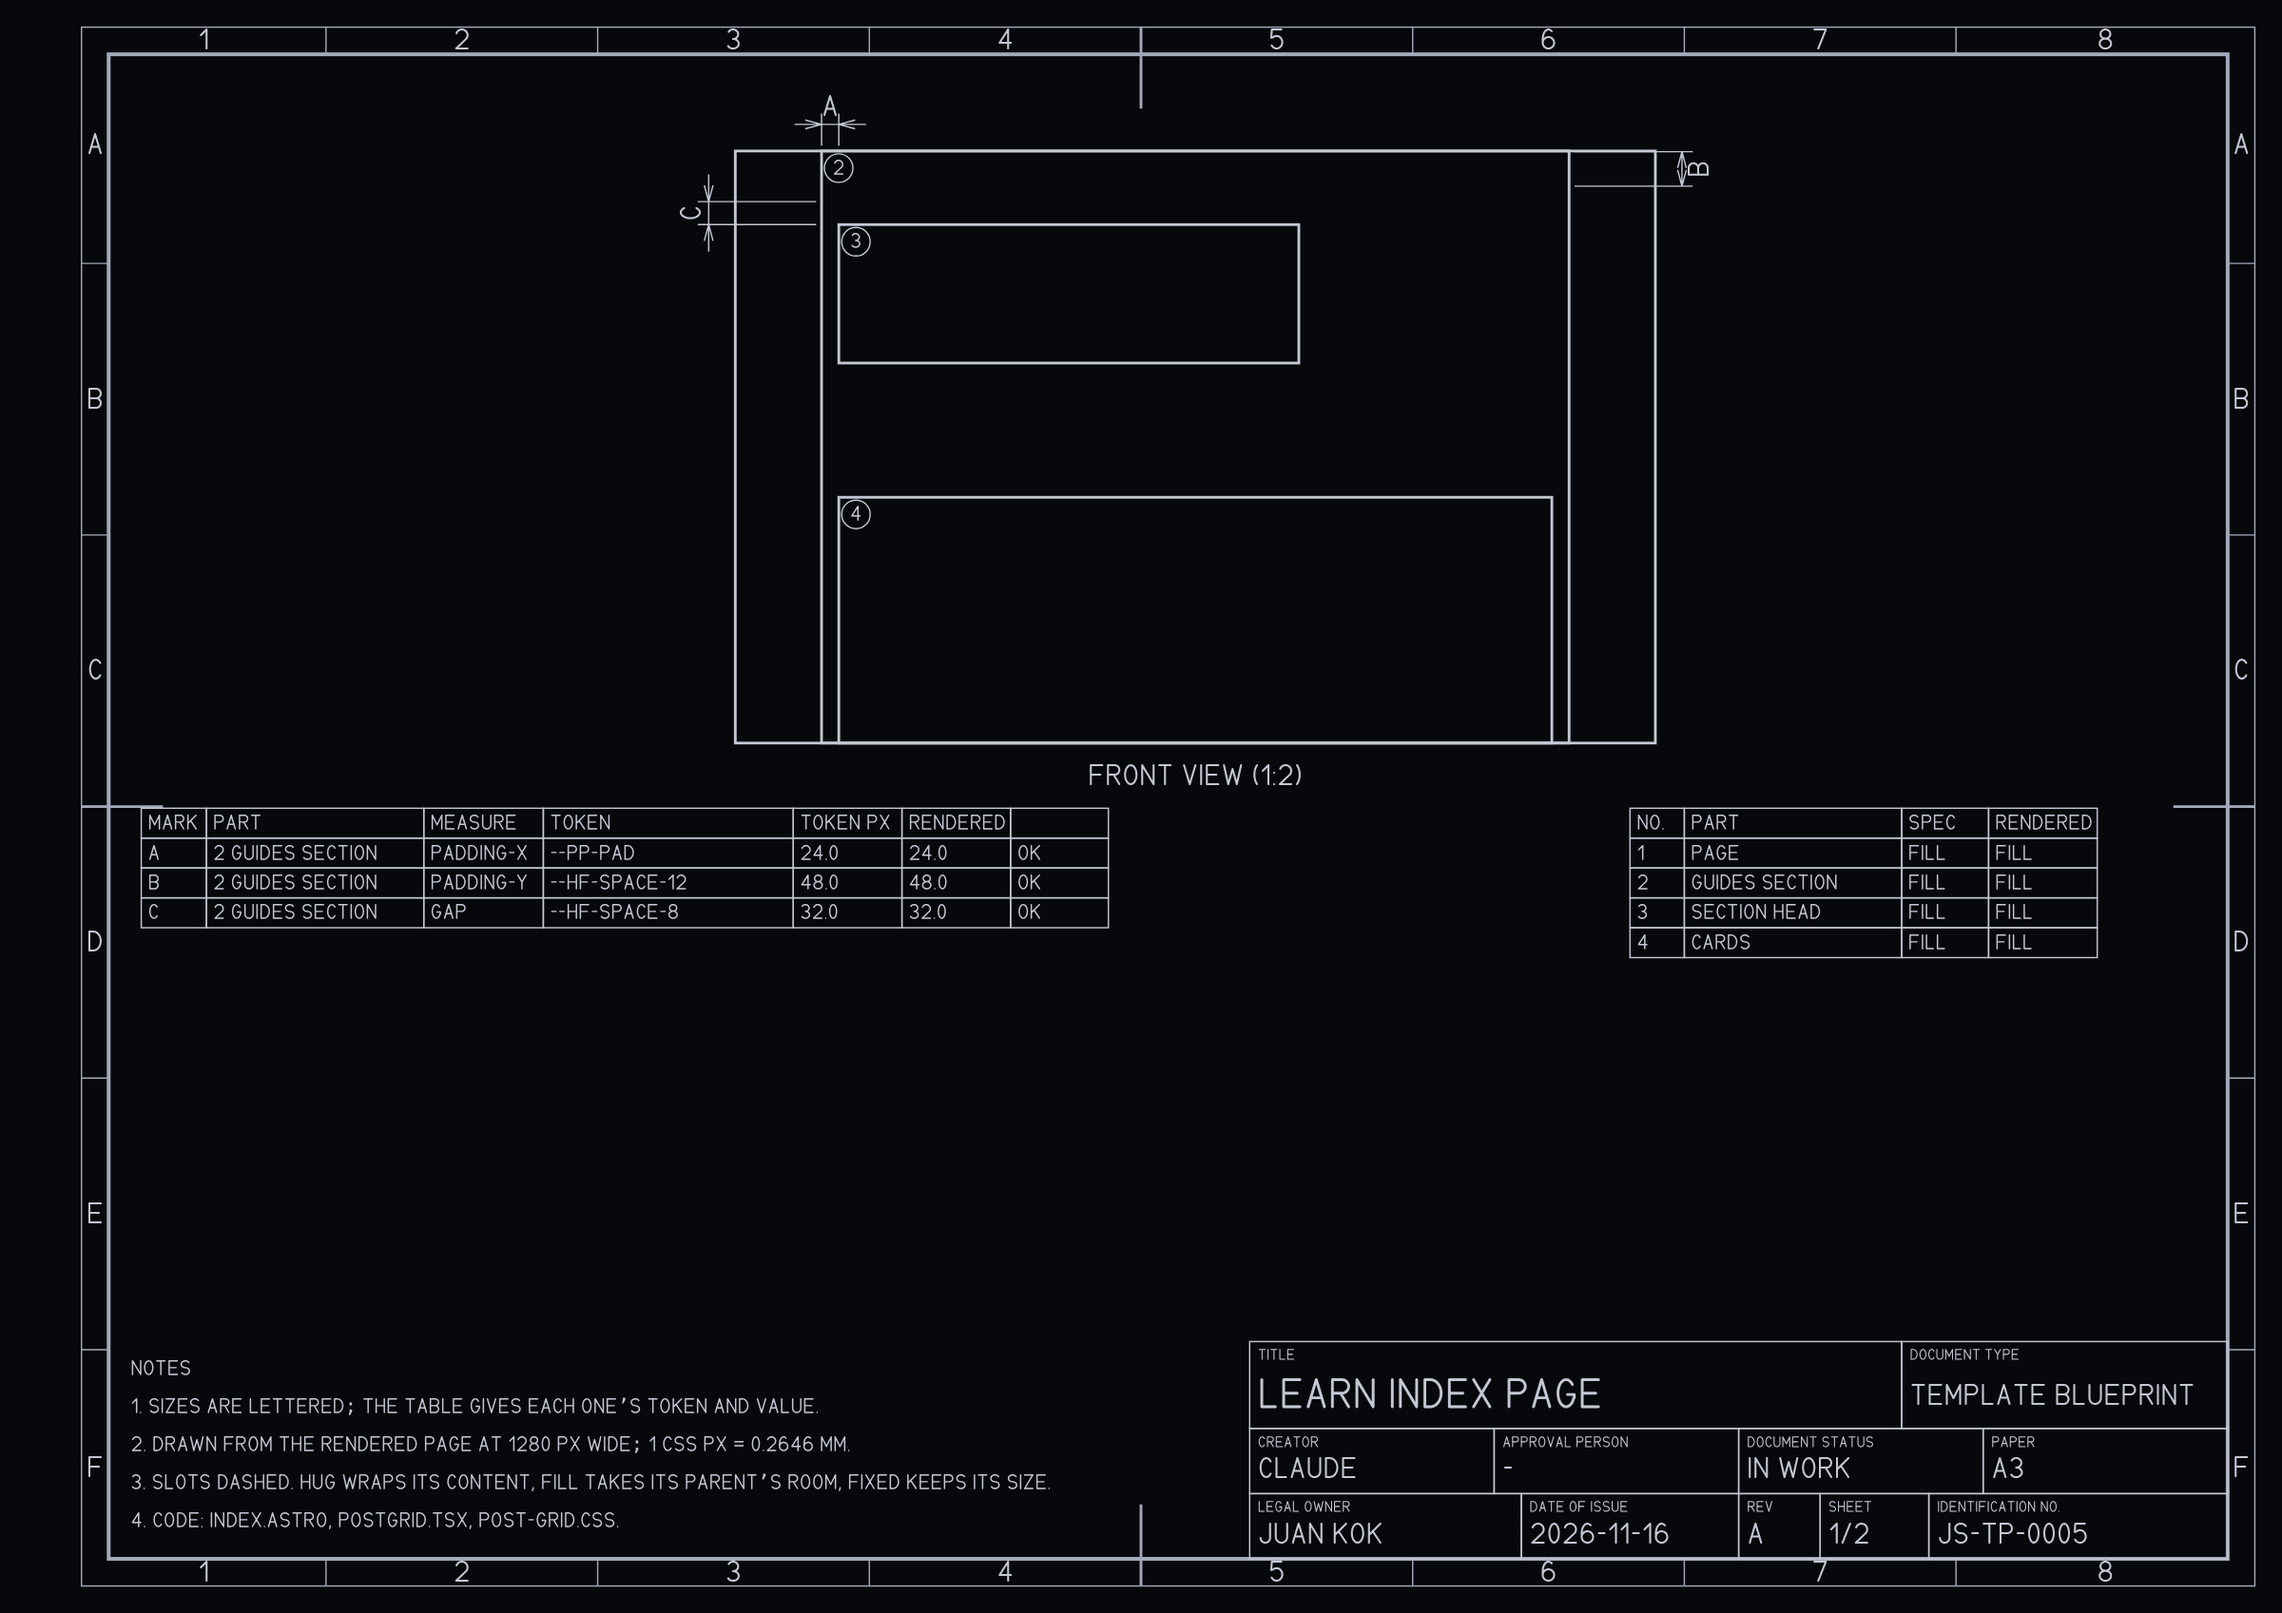
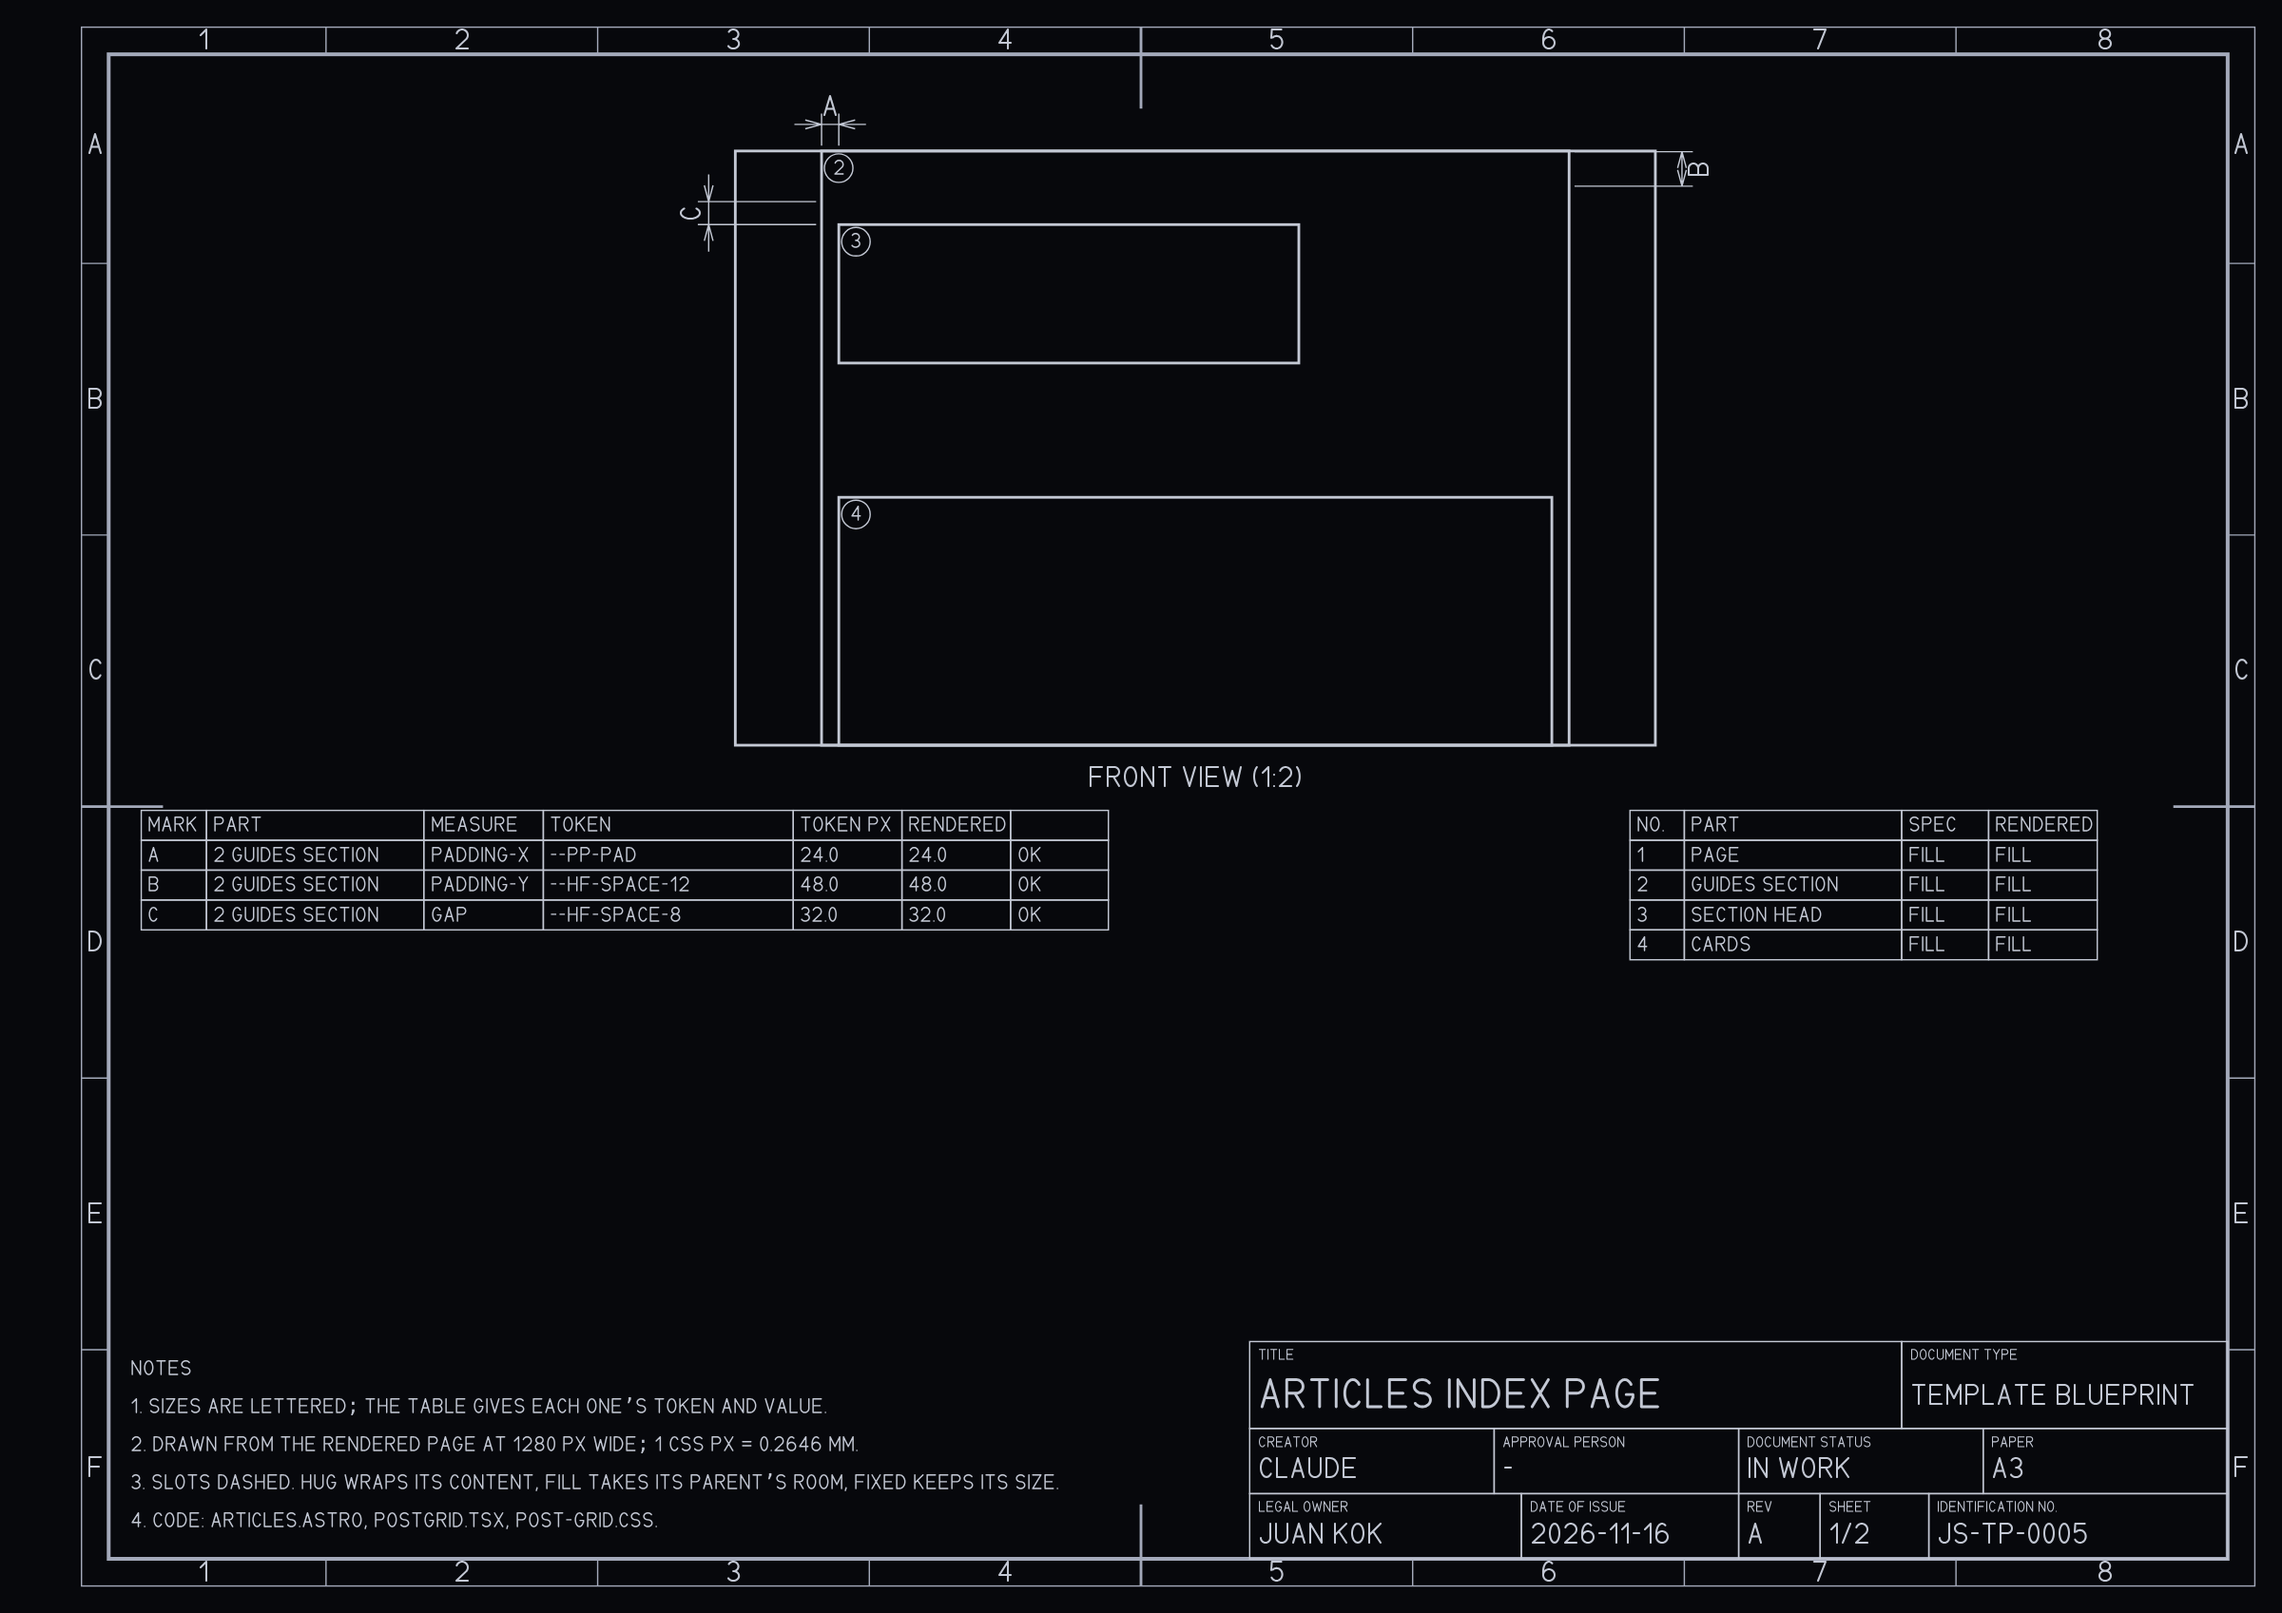
feat: the field-guide index moves into the library
/learn/ becomes /library/articles/ and forwards there; "Learn" leaves the
header, nav and footer, and article pages light "Library". The library grid
now holds posts and articles, so its words say "writing", not "posts".
The gate reserves the slug "articles" and no longer lets a link to /learn/
through, which caught the art-gallery sheet's back link.

diff --git a/astro/src/data/learn.ts b/astro/src/data/learn.ts
@@ -1,7 +1,7 @@
 import { getCollection, type CollectionEntry } from 'astro:content';
 import { LEARN_SUBJECTS } from '../content/config';
 import type { FeaturedPage, PostSummary } from '../components/writing/types';
-import { pieceHref } from './library';
+import { LIBRARY, pieceHref } from './library';
 
 /** The words and the order of the learn pages. Each subject names the weekly tracker that
  *  follows it, so an explainer and the week's news about the same thing link to each other. */
@@ -16,7 +16,7 @@ export const LEARN_SUBJECT: Record<LearnSubject, { label: string; tracker: { nam
 export const LEARN_COPY = {
   title: 'Field guides',
   body: 'Long explainers on how inference runs, how the silicon under it is built, and how I build with agents. Each subject has a weekly tracker that follows it.',
-  all: { label: 'All field guides', href: '/learn/' },
+  all: { label: 'All field guides', href: LIBRARY.articles },
 } as const;
 
 export const LEARN_SUBJECT_LABEL: Record<string, string> = Object.fromEntries(

diff --git a/astro/src/data/home.ts b/astro/src/data/home.ts
@@ -80,7 +80,6 @@ export const NAV = [
   { label: 'work', href: '/#work' },
   { label: 'lab', href: '/lab/' },
   { label: 'anatomy', href: '/anatomy/chip-package/' },
-  { label: 'learn', href: '/learn/' },
   { label: 'vault', href: '/vault/' },
   // A narrow screen keeps the current page, or the library when no page is selected.
   // The footer carries every destination.
@@ -198,7 +197,6 @@ export const HEADER_LINKS = [
   { label: 'About', href: '/about/' },
   { label: 'Work', href: '/#work' },
   { label: 'Library', href: '/library/' },
-  { label: 'Learn', href: '/learn/' },
   { label: 'Lab', href: '/lab/' },
   { label: 'Vault', href: '/vault/' },
 ] as const;
@@ -209,7 +207,6 @@ export const FOOTER_GROUPS = [
     links: [
       { label: 'About', href: '/about/' },
       { label: 'Library', href: '/library/' },
-      { label: 'Learn', href: '/learn/' },
       { label: 'Lab', href: '/lab/' },
       { label: 'Vault', href: '/vault/' },
       { label: 'Anatomy', href: '/anatomy/chip-package/' },

diff --git a/astro/src/blueprints/learn-index.ts b/astro/src/blueprints/learn-index.ts
@@ -1,17 +1,17 @@
 import { onPage, type Blueprint } from './types';
 
-/** The learn index (/learn/): a SectionHead and the grid of guide cards on the page column. */
+/** The articles index (/library/articles/): a SectionHead and the grid of guide cards on the page column. */
 export const LEARN_INDEX: Blueprint = {
   id: 'learn-index',
   kind: 'template',
-  title: 'Learn index page',
+  title: 'Articles index page',
   summary: 'The list of guides: a heading, then a grid of guide cards.',
   source: [
-    'src/pages/learn/index.astro',
+    'src/pages/library/articles.astro',
     'src/components/writing/PostGrid.tsx',
     'src/components/writing/post-grid.css',
   ],
-  views: onPage('/learn/', 'main'),
+  views: onPage('/library/articles/', 'main'),
   parts: [
     { id: 1, name: 'Page', selector: '', sizing: 'fill', aliases: ['main'] },
     { id: 2, name: 'Guides section', selector: 'section.block', sizing: 'fill', aliases: ['section'] },

diff --git a/astro/src/data/writing.ts b/astro/src/data/writing.ts
@@ -7,7 +7,7 @@ export const WRITING_HERO = {
   title: 'Where silicon meets syntax.',
   body: 'Explainers on how AI inference really works, from the transistor to the token. Plus chip design, tooling, and the lessons I pick up building with agents.',
   primary: { label: 'Start with inference', href: '/library/inference-end-to-end' },
-  secondary: { label: 'Browse all posts', href: '#posts' },
+  secondary: { label: 'Browse all writing', href: '#posts' },
   hint: 'Move across the lattice. Click to send a pulse.',
 } as const;
 
@@ -24,7 +24,7 @@ export const LESSONS_COPY = {
 } as const;
 
 export const POSTS_COPY = {
-  title: 'All posts',
+  title: 'All writing',
   body: 'Newest first. Every cover is a live drawing: point at it and it answers.',
 } as const;
 

diff --git a/astro/src/data/library.ts b/astro/src/data/library.ts
@@ -8,6 +8,7 @@ export const LIBRARY = {
   posts: '/library/#posts',
   lessonLog: '/library/#lessons',
   lessons: '/library/lessons/',
+  articles: '/library/articles/',
 } as const;
 
 export function pieceHref(slug: string): string {

diff --git a/CLAUDE.md b/CLAUDE.md
@@ -79,10 +79,11 @@ sources; every other file's counts only go down).
 
 Posts (`src/content/blog/`) and articles (`src/content/learn/`) are pieces of one library. Every
 piece is read at `/library/<slug>`, whatever its kind, so a slug names one piece across both
-collections and `lessons` is reserved (`/library/lessons/`). Build a link with `pieceHref`
+collections; `lessons` and `articles` are reserved for the kind indexes (`/library/lessons/`,
+`/library/articles/`, the field guides by subject). Build a link with `pieceHref`
 (`src/data/library.ts`), never a literal. `src/pages/library/[slug].astro` picks `PostPage` or
-`ArticlePage` (`src/components/library/`) by kind. `/learn/` (the field-guide index) and
-`/learn/art-gallery/` stay where they are.
+`ArticlePage` (`src/components/library/`) by kind. Only `/learn/art-gallery/`, a reference
+sheet, keeps an old address.
 
 `src/data/library-legacy.json` is frozen: the addresses the site served before the library, each
 built as a forwarding page (`redirects` in `astro.config.mjs`), and the feed id each piece had,

diff --git a/astro/src/blueprints/INDEX.md b/astro/src/blueprints/INDEX.md
@@ -144,7 +144,7 @@ The list of writing: a hero, then featured, lessons and posts sections on the pa
 | 3 Posts section | posts, all posts | padding down | `--hf-space-12` | src/styles/tokens/spacing.css:16 | 48px | paper-footer, learn-index, presentation, read in 14 files |
 | 3 Posts section | posts, all posts | gap | `--hf-space-8` | src/styles/tokens/spacing.css:14 | 32px | home, learn-index, read in 30 files |
 
-## Learn index page (`learn-index`, JS-TP-0005 rev A)
+## Articles index page (`learn-index`, JS-TP-0005 rev A)
 
 The list of guides: a heading, then a grid of guide cards.
 
